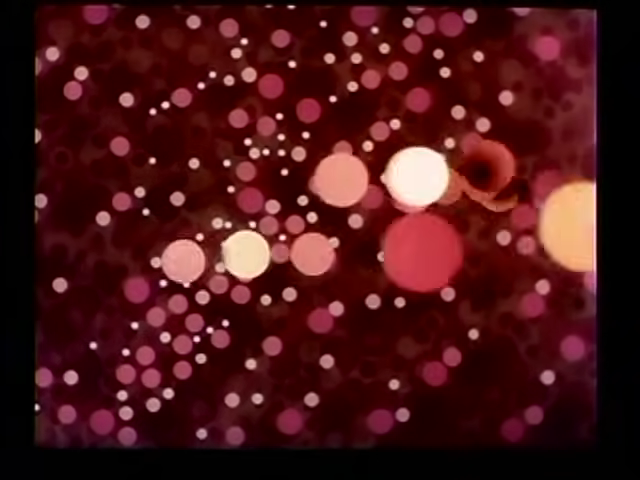
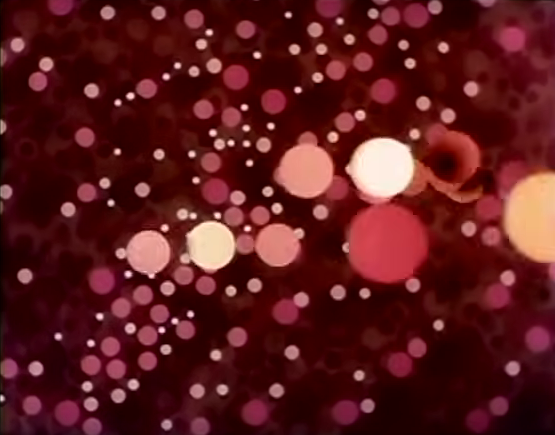
fix: remove black edges from skydome image

diff --git a/js/carrossel.js b/js/carrossel.js
@@ -74,8 +74,6 @@ function createMobiusStrip(uSegments, vSegments, radius) {
         }
     }
 
-    console.log(vertices);
-
     geometry.setAttribute('position', new THREE.Float32BufferAttribute(vertices, 3));
     geometry.setIndex(indices);
     geometry.computeVertexNormals();
